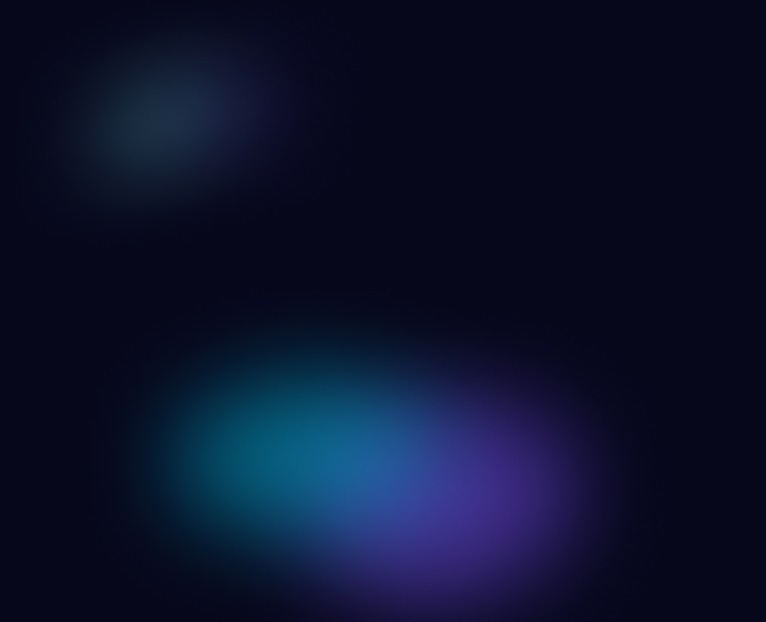
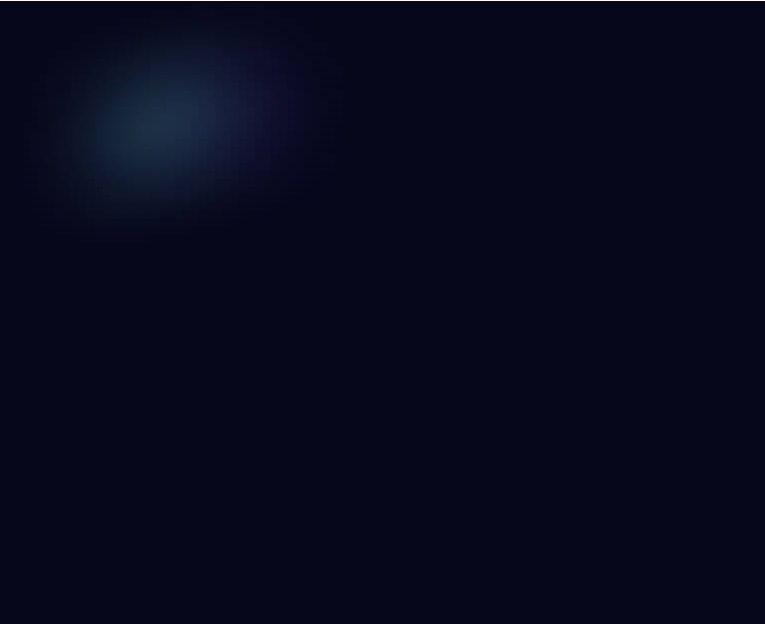
блюр телефона откорректирован

Changed region(s): [[0.1804, 0.5498, 0.7817, 1.0]]

diff --git a/src/sass/layout/_video.scss b/src/sass/layout/_video.scss
@@ -1,23 +1,16 @@
 .video {
-  background-image: url(../images/video-mobile.jpg);
-  background-repeat: no-repeat;
-  background-size: cover;
-  background-position: center;
-  color: #ffffff;
+  background-color: #06071b;
+  color: var(--secondary-text-color);
   display: flex;
   flex-direction: column;
   justify-content: center;
   align-items: center;
 
-  @media (min-device-pixel-ratio: 2) and (max-width: 767px),
-    (min-resolution: 192dpi) and (max-width: 767px),
-    (min-resolution: 2dppx) and (max-width: 767px) {
-    background-image: url(../images/video-mobile@2x.jpg);
-  }
-
   @media screen and (max-width: 1279px) {
     background-image: url(../images/video-tablet.jpg);
-    padding-bottom: 0;
+    background-repeat: no-repeat;
+    background-size: cover;
+    background-position: center;
   }
 
   @media (min-device-pixel-ratio: 2) and (max-width: 1279px),
@@ -28,6 +21,9 @@
 
   @media screen and (min-width: 1280px) {
     background-image: url(../images/video-desctop.jpg);
+    background-repeat: no-repeat;
+    background-size: cover;
+    background-position: center;
   }
 
   @media (min-device-pixel-ratio: 2) and (min-width: 1280px),
@@ -39,6 +35,7 @@
   &__block {
     @media screen and (min-width: 1279px) {
       display: flex;
+      gap: 161px;
     }
   }
 
@@ -46,9 +43,7 @@
     font-weight: 700;
     font-size: 20px;
     line-height: 1.2;
-    color: #000000;
     text-align: center;
-    color: #ffffff;
 
     @media screen and (min-width: 768px) {
       font-size: 24px;
@@ -72,8 +67,6 @@
       font-size: 16px;
       line-height: 1.1875;
       margin: 20px auto 0;
-      // padding: 0 32px;
-      // max-width: 704px;
     }
 
     @media screen and (min-width: 1280px) {
@@ -85,20 +78,42 @@
     }
   }
 
-  img {
-    margin-top: 40px;
+  &__picture {
+    position: relative;
+    z-index: 5;
 
-    @media screen and (max-width: 1279px) {
+    @media screen and (min-width: 768px) {
+      max-width: 401px;
       margin: 0 auto;
     }
 
-    @media screen and (min-width: 1280px) {
-      margin-left: 161px;
+    &::before {
+      position: absolute;
+      background: url(../images/blur.svg);
+      background-repeat: no-repeat;
+      background-size: cover;
+      background-position: center;
+      content: '';
+      top: 50%;
+      left: 50%;
+      width: 150%;
+      height: 150%;
+      transform: translate(-50%, -50%);
+      z-index: -1;
+      animation: opacityAnim linear 3000ms infinite;
     }
-  }
 
-  &__picture {
-    position: relative;
+    @keyframes opacityAnim {
+      0% {
+        opacity: 0.9;
+      }
+      50% {
+        opacity: 0;
+      }
+      100% {
+        opacity: 0.9;
+      }
+    }
   }
 
   &__open-btn {
@@ -115,18 +130,15 @@
     display: flex;
     align-items: center;
     justify-content: center;
-    fill: transparent;
+    fill: white;
+    background: linear-gradient(90.03deg, #00c5eb -1.97%, #b544fe 89.43%);
     transition: opacity 250ms cubic-bezier(0.17, 0.67, 0.83, 0.67),
       visibility cubic-bezier(0.17, 0.67, 0.83, 0.67);
-
-    @media screen and (min-width: 1280px) {
-      transform: translate(50%, -50%);
-    }
+    opacity: 0;
 
     &:hover,
     &:focus {
-      fill: white;
-      background: linear-gradient(90.03deg, #00c5eb -1.97%, #b544fe 89.43%);
+      opacity: 1;
     }
   }
 }
@@ -142,6 +154,7 @@
   justify-content: center;
   gap: 20px;
   margin-top: 24px;
+  margin-bottom: 40px;
   fill: white;
 
   @media screen and (min-width: 1280px) {
@@ -161,8 +174,10 @@
     display: flex;
     align-items: center;
     justify-content: center;
-    transition: opacity 250ms cubic-bezier(0.17, 0.67, 0.83, 0.67),
-      visibility cubic-bezier(0.17, 0.67, 0.83, 0.67);
+
+    &:hover::before {
+      opacity: 1;
+    }
 
     &::before {
       position: absolute;
@@ -176,10 +191,8 @@
       border-radius: 50%;
       z-index: 1;
       opacity: 0;
+      transition: opacity 250ms cubic-bezier(0.17, 0.67, 0.83, 0.67),
+        visibility cubic-bezier(0.17, 0.67, 0.83, 0.67);
     }
   }
-}
-
-.mobile-icon__link:hover::before {
-  opacity: 1;
 }

diff --git a/src/sass/layout/_team.scss b/src/sass/layout/_team.scss
@@ -35,7 +35,7 @@
     font-weight: 700;
     font-size: 20px;
     line-height: 1.2;
-    color: #000000;
+    color: var(--primary-text-color);
     text-align: center;
 
     @media screen and (min-width: 768px) {
@@ -50,7 +50,7 @@
     line-height: 1.714;
     margin-top: 24px;
     text-align: center;
-    color: #000000;
+    color: var(--primary-text-color);
 
     @media screen and (min-width: 768px) {
       margin-top: 40px;
@@ -65,7 +65,7 @@
   }
 
   &__list {
-    color: #fff;
+    color: var(--secondary-text-color);
     display: flex;
     flex-direction: column;
     flex-wrap: wrap;
